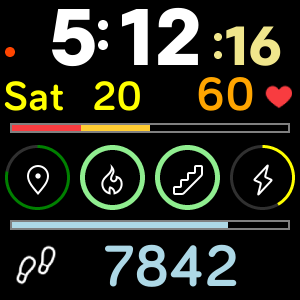
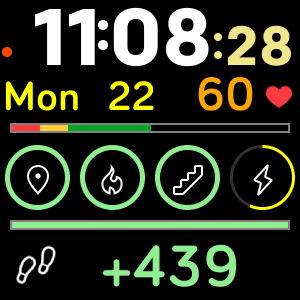
Update heart rate to -- when not on wrist, make battery level more realistic

diff --git a/app/battery.js b/app/battery.js
@@ -27,14 +27,12 @@ function batteryFill(percentage, maxval, minval, range, multiplier) {
 
 export function setLevel() {
   let charge = Math.round(battery.chargeLevel);
-  batDataR.width = batteryFill(charge, 25, 0, 69, 4);
-  batDataA.width = batteryFill(charge, 50, 25, 69, 4);
-  batDataG.width = batteryFill(charge, 100, 50, 138, 2);
+  batDataR.width = batteryFill(charge, 10, 0, 28, 10);
+  batDataA.width = batteryFill(charge, 20, 10, 28, 10);
+  batDataG.width = batteryFill(charge, 99, 20, 220, 1.25);
   
   batDataR.style.fill = 'fb-red';
   batDataA.style.fill = 'fb-peach';
   batDataG.style.fill = 'fb-green';
   
-  //batteryLevelColor(charge);
-  //batChrg.text = `${charge}%`;
 }

diff --git a/app/hrm.js b/app/hrm.js
@@ -19,7 +19,12 @@ export function initialize() {
 }
 
 function getReading() {
-  heartText.text = hrm.heartRate;
+  if (hrm.heartRate == null) {
+    heartText.text = "--";
+  }
+  else {
+    heartText.text = hrm.heartRate;  
+  }
 }
 
 function heartRateSetup() {
